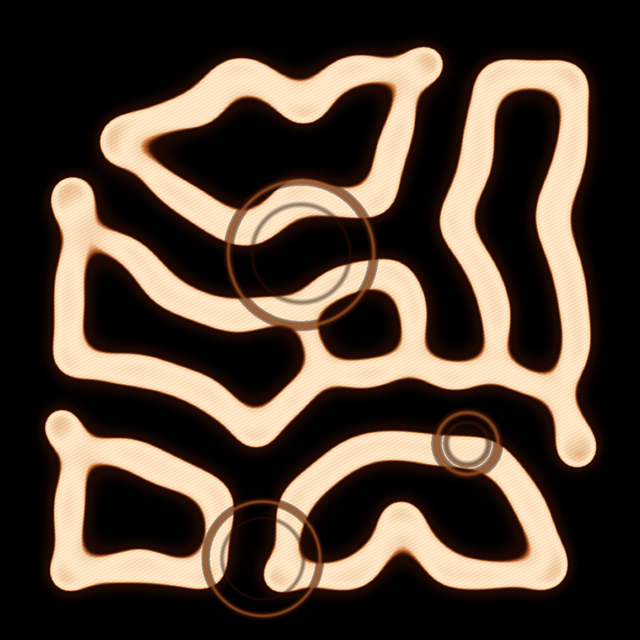
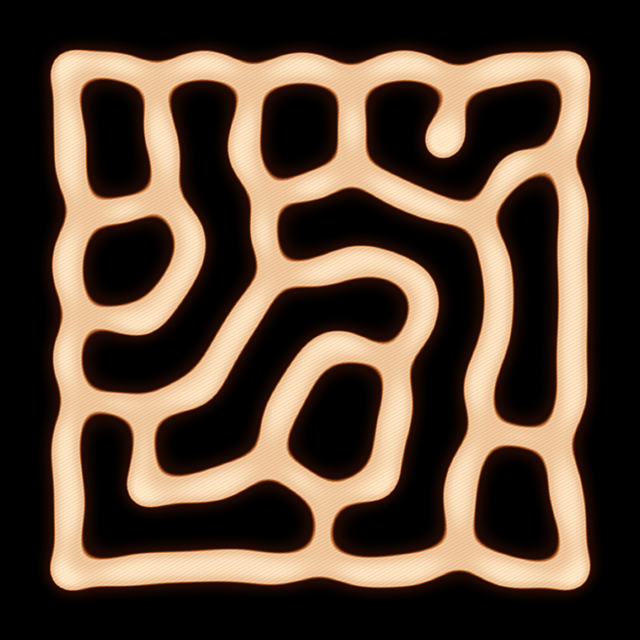
v4: seed like Jaiye, no circles
- Removed the floating rings (not his vocabulary)
- Seeding rebuilt: dense jittered 7x7 grid + wild off-grid seeds across
  the whole field, 14-cell black-frame margin — the labyrinth grows
  edge-to-edge with even density, like his pieces
- Retired the slow Copper Maze regime; Deep Veins / Worm Trails /
  Ember Seeds all hold coverage in budget
- Traits now Palette / Regime / Iterations; docs updated

diff --git a/core.js b/core.js
@@ -59,9 +59,9 @@ const PALETTES = [
 /* ---------- Gray-Scott regimes (Jaiye-tuned: tubes + dots) ---------- */
 
 const REGIMES = [
-  { name: "Deep Veins",  F: 0.0545, k: 0.062, iters: 2600, t0: 0.30, seeds: [6, 14] },
-  { name: "Worm Trails", F: 0.058,  k: 0.065, iters: 4000, t0: 0.30, seeds: [20, 32] },
-  { name: "Ember Seeds", F: 0.036,  k: 0.062, iters: 4000, t0: 0.30, seeds: [10, 18] },
+  { name: "Deep Veins",  F: 0.0545, k: 0.062, iters: 2600, t0: 0.30 },
+  { name: "Worm Trails", F: 0.058,  k: 0.065, iters: 4000, t0: 0.30 },
+  { name: "Ember Seeds", F: 0.036,  k: 0.062, iters: 4000, t0: 0.30 },
 ];
 
 /* ---------- Gray-Scott simulation (128 x 128 cells) ---------- */
@@ -74,12 +74,36 @@ function simulate(rng, regime) {
   const U = new Float64Array(n * n).fill(1);
   const V = new Float64Array(n * n).fill(0);
 
-  // deterministic seed blooms; count varies per regime
-  const blobCount = regime.seeds[0] + ((rng() * (regime.seeds[1] - regime.seeds[0])) | 0);
-  for (let b = 0; b < blobCount; b++) {
-    const cx = 20 + rng() * (n - 40);
-    const cy = 20 + rng() * (n - 40);
-    const r = 2.5 + rng() * 2.5;
+  // Jaiye-style seeding: dense jittered grid of small seeds covering the
+  // whole field — the labyrinth grows edge-to-edge with even density,
+  // like his pieces, instead of blooming from a few isolated spots
+  const gridN = 7;
+  const margin = 14; // keep the composition off the canvas edges — black frame
+  const cell = (n - 2 * margin) / gridN;
+  for (let gy = 0; gy < gridN; gy++) {
+    for (let gx = 0; gx < gridN; gx++) {
+      if (rng() < 0.15) continue; // skip some — breaks the lattice
+      const cx = margin + gx * cell + cell / 2 + (rng() - 0.5) * cell * 1.0;
+      const cy = margin + gy * cell + cell / 2 + (rng() - 0.5) * cell * 1.0;
+      const r = 1.5 + rng() * 1.5;
+      for (let y = Math.floor(cy - r - 1); y <= Math.ceil(cy + r + 1); y++) {
+        for (let x = Math.floor(cx - r - 1); x <= Math.ceil(cx + r + 1); x++) {
+          if (x < 0 || y < 0 || x >= n || y >= n) continue;
+          const dx = x - cx, dy = y - cy;
+          if (dx * dx + dy * dy <= r * r) {
+            const i = y * n + x;
+            U[i] = 0.5; V[i] = 1.0;
+          }
+        }
+      }
+    }
+  }
+  // a few wild seeds, fully off-grid (also kept off the edges)
+  const wild = 6 + ((rng() * 8) | 0);
+  for (let b = 0; b < wild; b++) {
+    const cx = 14 + rng() * (n - 28);
+    const cy = 14 + rng() * (n - 28);
+    const r = 1.5 + rng() * 1.5;
     for (let y = Math.floor(cy - r - 1); y <= Math.ceil(cy + r + 1); y++) {
       for (let x = Math.floor(cx - r - 1); x <= Math.ceil(cx + r + 1); x++) {
         if (x < 0 || y < 0 || x >= n || y >= n) continue;
@@ -90,6 +114,10 @@ function simulate(rng, regime) {
         }
       }
     }
+  }
+  // faint background noise so no region stays perfectly sterile
+  for (let i = 0; i < n * n; i++) {
+    if (V[i] === 0) V[i] = rng() * 0.05;
   }
 
   const F = regime.F;
@@ -115,7 +143,7 @@ function simulate(rng, regime) {
     }
     U.set(U2); V.set(V2);
   }
-  return { V, blobCount, F, K, iters };
+  return { V, F, K, iters };
 }
 
 // bilinear sample of the V field, u/v in [0,1]
@@ -188,52 +216,6 @@ function renderGlow(V, regime, pal, out, rng, seedInt) {
   }
 }
 
-// glowing concentric rings — Jaiye's circles, drawn over the field
-function renderRings(rng, pal, out) {
-  const W = out.width, H = out.height, buf = out.data;
-  const ramp = buildRamp(pal);
-  const ringCount = 2 + ((rng() * 5) | 0);
-
-  for (let r = 0; r < ringCount; r++) {
-    const cx = W * (0.12 + rng() * 0.76);
-    const cy = H * (0.12 + rng() * 0.76);
-    const R = 24 + rng() * 110;
-    const thick = 9 + rng() * 12;      // chunky, tube-like bands
-    const double = rng() < 0.45;
-    const R2 = R * (0.55 + rng() * 0.2);
-    const x0 = Math.max(0, Math.floor(cx - R - thick - 14)), x1 = Math.min(W - 1, Math.ceil(cx + R + thick + 14));
-    const y0 = Math.max(0, Math.floor(cy - R - thick - 14)), y1 = Math.min(H - 1, Math.ceil(cy + R + thick + 14));
-
-    for (let y = y0; y <= y1; y++) {
-      for (let x = x0; x <= x1; x++) {
-        const d = Math.hypot(x - cx, y - cy);
-        // ring as a tube: bright at the band's edges, darker band core (Jaiye shading)
-        const s = Math.abs(d - R), half = thick / 2;
-        const b = 1 - smoothstep(0, half, s);
-        if (b <= 0.01 && !double) continue;
-        const rimB = smoothstep(half * 0.45, half, s); // 1 near band edges
-        let bright = b * (0.45 + 0.55 * rimB);
-        if (double) {
-          const s2 = Math.abs(d - R2), half2 = half * 0.7;
-          const b2 = 1 - smoothstep(0, half2, s2);
-          const rim2 = smoothstep(half2 * 0.45, half2, s2);
-          bright = Math.max(bright, b2 * (0.45 + 0.55 * rim2) * 0.9);
-        }
-        if (bright <= 0.01) continue;
-        const halo = (1 - smoothstep(half, half + 12, s)) * 0.22;
-        bright = Math.min(bright * 0.9 + halo, 1); // sit slightly under the field's glow
-        const ri = Math.min(255, (bright * 255) | 0) * 3;
-        const i = (y * W + x) * 4;
-        const a = Math.min(bright * 1.4, 1);
-        buf[i]     = buf[i]     * (1 - a) + ramp[ri]     * a;
-        buf[i + 1] = buf[i + 1] * (1 - a) + ramp[ri + 1] * a;
-        buf[i + 2] = buf[i + 2] * (1 - a) + ramp[ri + 2] * a;
-      }
-    }
-  }
-  return ringCount;
-}
-
 /* ---------- top-level: hash -> artwork ---------- */
 
 function generate(hashStr, size) {
@@ -255,14 +237,11 @@ function generate(hashStr, size) {
   };
   const seedInt = cyrb53(String(hashStr).toLowerCase(), 0x51ab3c2d);
   renderGlow(sim.V, regime, pal, out, rng, seedInt);
-  const rings = renderRings(rng, pal, out);
 
   // Art Blocks-style traits
   out.features = {
     "Palette": pal.name,
     "Regime": regime.name,
-    "Seed blooms": String(sim.blobCount),
-    "Rings": String(rings),
     "Iterations": String(sim.iters),
   };
   out.palette = pal.name;

diff --git a/test.js b/test.js
@@ -33,7 +33,7 @@ check("seeded RNG stable", r1 === r2);
 // 5. traits present (Art Blocks $features contract)
 const f = a.features;
 check("features complete",
-  f && f.Palette && f.Regime && f["Seed blooms"] && f.Rings && f.Iterations,
+  f && f.Palette && f.Regime && f.Iterations,
   JSON.stringify(f));
 
 // 6. every regime develops a real field (coverage sanity, catches param drift)

diff --git a/README.md b/README.md
@@ -9,10 +9,13 @@ Live demo: https://joshuagwatts.github.io/dawn-diffusion/
 
 ## What it does
 
-A Gray-Scott reaction-diffusion simulation grows an organic field from seeded
-"blooms"; the field is rendered as glowing tubes — brightest ring right at the
-tube boundary, darker copper core inside, faint halo spilling outward.
-`docs/reference.jpg` is one of Jaiye's actual pieces, the style target.
+A Gray-Scott reaction-diffusion simulation grows an organic field from a dense
+jittered grid of seeds covering the whole canvas — the labyrinth grows
+edge-to-edge with even density, the way his pieces do, with a black frame
+around the composition. The field renders as glowing tubes: brightest ring
+right at the tube boundary, darker copper core inside, faint halo spilling
+outward, subtle interior marbling and hand grain. `docs/reference.jpg` is one
+of Jaiye's actual pieces, the style target.
 
 Everything derives from a 64-hex hash (like `tokenData.hash`):
 - same hash → same artwork, every time (seeded PRNG, no `Math.random()` anywhere)
@@ -20,9 +23,7 @@ Everything derives from a 64-hex hash (like `tokenData.hash`):
 - traits exposed as `window.$features` (Palette, Regime, Seed blooms, Rings, Iterations)
 
 Three regimes, all Jaiye-tuned: **Deep Veins** (bold labyrinth loops),
-**Worm Trails** (dense worm maze), **Ember Seeds** (pill/dot field). Glowing
-concentric **rings** float over the field; tubes carry subtle interior marbling
-and hand grain.
+**Worm Trails** (dense worm maze), **Ember Seeds** (pill/dot field).
 
 ## Run it
 

diff --git a/ART_BLOCKS.md b/ART_BLOCKS.md
@@ -9,7 +9,7 @@ How this repo maps to an Art Blocks drop, and what's left for Jaiye.
       no `Date.now()`, no external requests, no CDN scripts. Same hash always
       grows the same piece (verified by `node test.js`).
 - [x] **`window.$features` traits** — every piece reports Palette, Regime,
-      Seed blooms, Rings, Iterations. The browser demo sets
+      Iterations. The browser demo sets
       `window.tokenData = { hash, tokenId }` exactly the way Art Blocks injects it.
 - [x] **Static, capturable output** — 1080×1080, renders in ~1s, no animation
       loop, so Art Blocks' static thumbnail capture just works.
